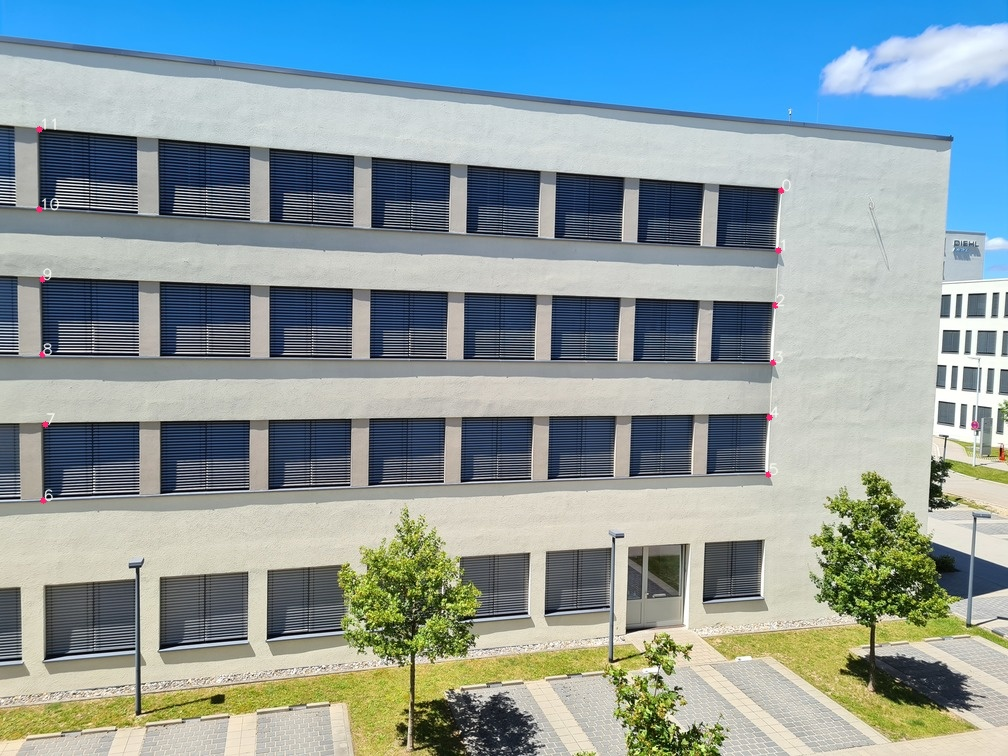
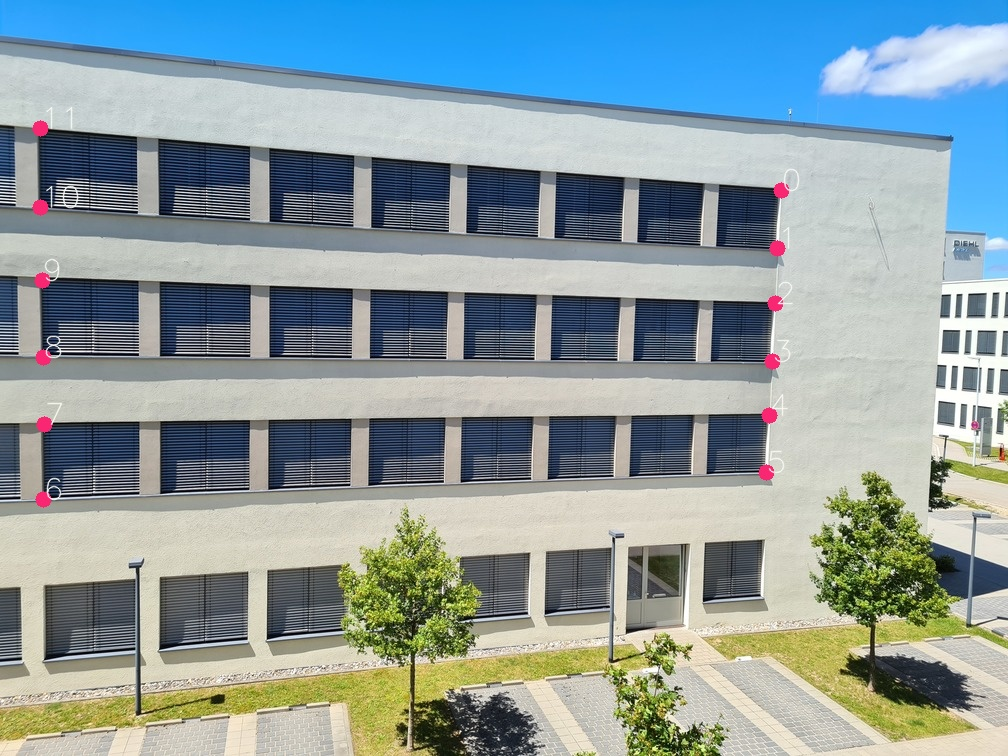
doc: Fused images

diff --git a/computer-vision/fundamental-matrix.md b/computer-vision/fundamental-matrix.md
@@ -3,13 +3,11 @@
 
 Step 1: Have two images
 
-<img src="./images/imgA.jpg" width="256">
-<img src="./images/imgB.jpg" width="256">
+<img src="./images/out.jpg" width="512">
 
-Step 2: Select at least 8 corresponding points. [This tool](code/select_correspondances.py) will help. Example:
+Step 2: Select at least 8 corresponding points. Use [This tool](code/select_correspondances.py). Example:
 
-<img src="./images/img_drawA.jpg" width="256">
-<img src="./images/img_drawB.jpg" width="256">
+<img src="./images/out_drawA.jpg" width="512">
 
 <details>
 
